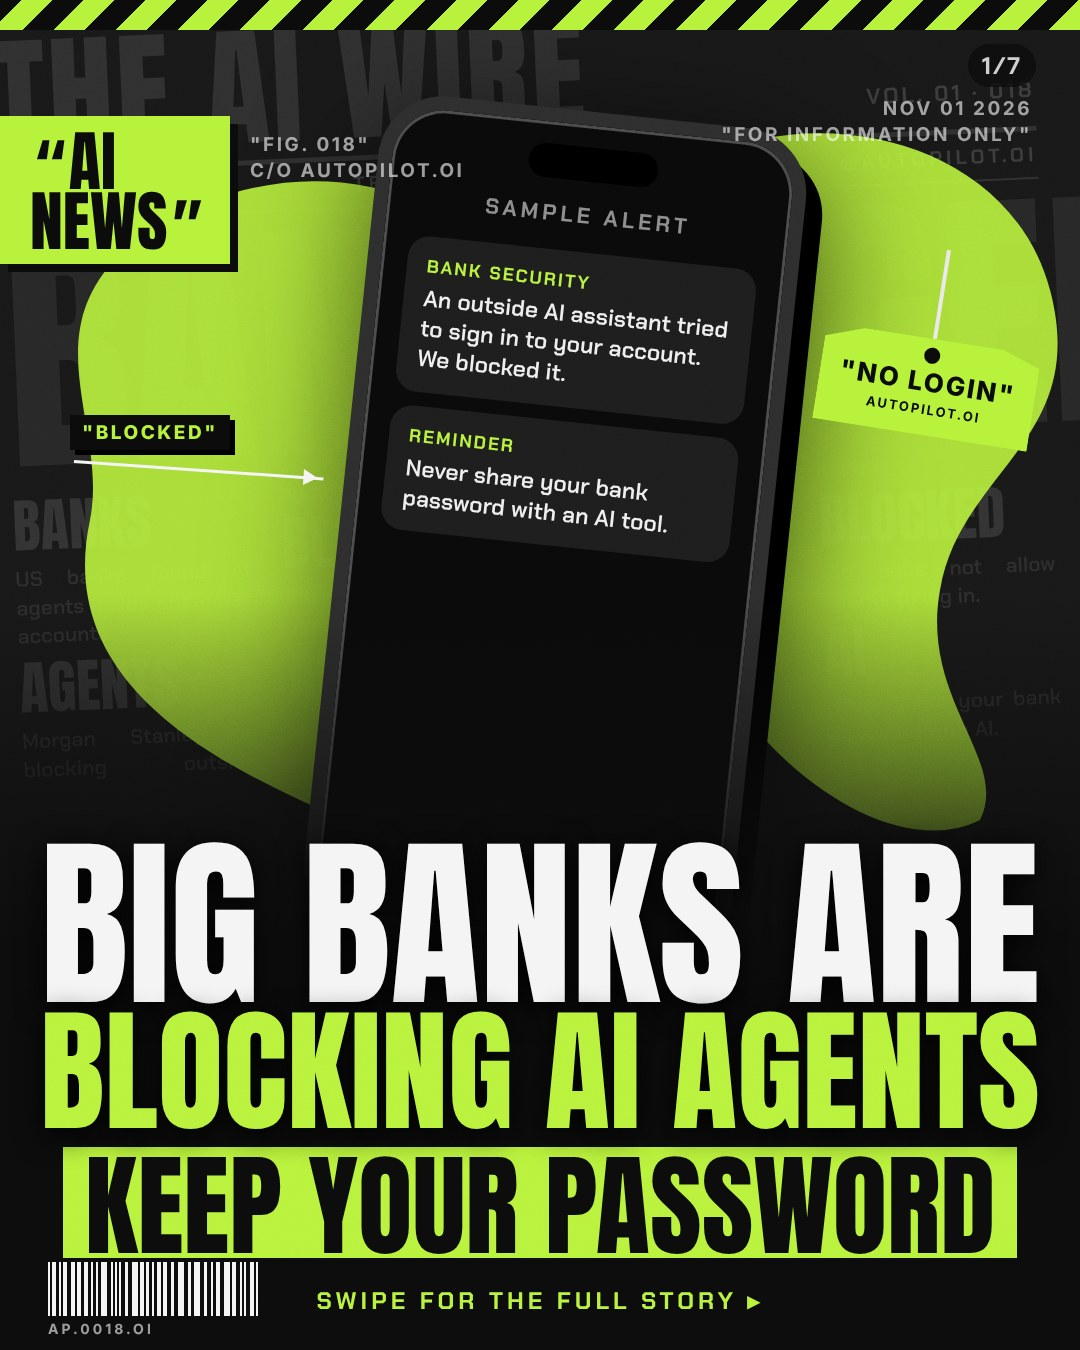
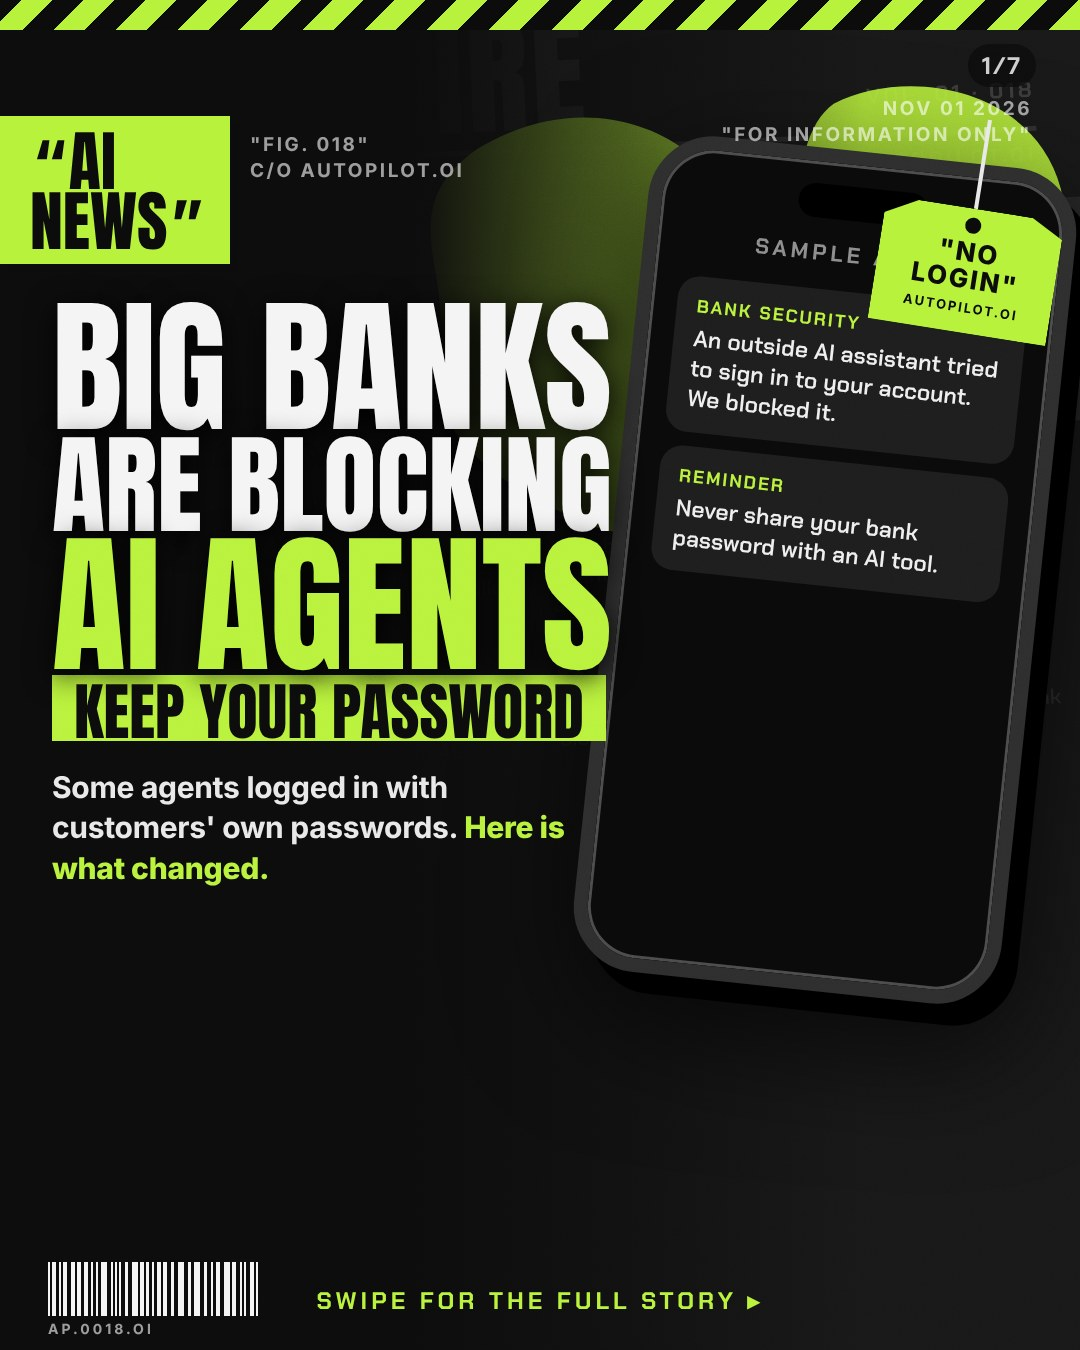
Carousels: 5 rotating cover layouts (stack, split, wall, front, arrow), light inner slides, cutout photo support; Pexels + rembg photo pipeline (needs PEXELS_API_KEY)
Claude-Session: https://claude.ai/code/session_01LKQNuEnmvMjGabLVVX6Xfj

diff --git a/tools/carousel/style.css b/tools/carousel/style.css
@@ -90,3 +90,42 @@
 .bc{position:absolute;z-index:8}
 .tagbox{font:400 66px/.9 A}
 .tagbox .qm{font:800 60px/1 I;vertical-align:top;margin:0 2px}
+
+/* ---------- cutout photos ---------- */
+.cut{position:absolute;z-index:3;filter:grayscale(1) contrast(1.25) brightness(1.05) drop-shadow(0 30px 50px #000c)}
+.cut.duo{filter:grayscale(1) contrast(1.3) brightness(1.05) sepia(1) hue-rotate(38deg) saturate(2.4) drop-shadow(0 30px 50px #000c)}
+
+/* ---------- layout: split (headline left, subject right) ---------- */
+.L-split .hl2{position:absolute;left:52px;top:300px;width:560px;z-index:6;text-align:left}
+.L-split .hl2 .ln{margin:0;text-align:left}
+.L-split .dek{font:700 30px/1.35 I;color:#e8e8e8;margin-top:26px;letter-spacing:-.3px;max-width:520px}
+.L-split .dek b{color:#B8F23C}
+.L-split .shade2{position:absolute;inset:0;background:linear-gradient(90deg,#0c0c0c 38%,#0c0c0c99 58%,#0c0c0c00 80%);z-index:2}
+
+/* ---------- layout: wall (height chart, Kim K style) ---------- */
+.wallbg{position:absolute;inset:0;background:#d6d6d2}
+.wallbg i{position:absolute;left:0;right:0;height:3px;background:#5a5a56}
+.wallbg span{position:absolute;font:400 54px/1 A;color:#4a4a46}
+.L-wall .blob{opacity:.85}
+.L-wall .band{position:absolute;left:0;right:0;bottom:0;height:520px;background:linear-gradient(#0c0c0c00,#0c0c0c 34%);z-index:4}
+
+/* ---------- layout: front page (light newspaper) ---------- */
+.paper.light{background:#e8e7e1;color:#1d1d1d}
+.paper.light .mast{border-color:#1d1d1d;color:#151515}.paper.light .mast small,.paper.light .bar2{color:#333;border-color:#1d1d1d}
+.paper.light .big1{color:#1a1a1a}.paper.light .cols{color:#3a3a3a}.paper.light .cols b{color:#1d1d1d}
+.L-front .shade{background:linear-gradient(#0c0c0c00,#0c0c0c 42%)}
+
+/* ---------- layout: arrow (left stack + chevrons) ---------- */
+.L-arrow .hl3{position:absolute;left:46px;top:300px;z-index:6;text-align:left}
+.L-arrow .hl3 .ln{margin:0;text-align:left}
+.L-arrow .chev2{position:absolute;z-index:6;display:flex;gap:6px}
+.L-arrow .chev2 b{display:block;width:96px;height:150px;background:#6f6f6f;clip-path:polygon(0 0,45% 0,100% 50%,45% 100%,0 100%,55% 50%)}
+.L-arrow .chev2 b.g{background:#B8F23C}
+.L-arrow .kick{font:800 26px/1.3 I;letter-spacing:1px;color:#f4f4f4;border-top:3px solid #f4f4f4;padding-top:14px;margin-top:22px;text-transform:uppercase;max-width:560px}
+.L-arrow .kick b{color:#B8F23C}
+/* light inner slide variant */
+.s.lite{background:#e8e7e1;color:#111}
+.s.lite .b{color:#1d1d1d}.s.lite .b b{background:#B8F23C;color:#111;padding:0 6px}
+.s.lite .t .l{background:#111;color:#B8F23C;padding:0 10px}
+.s.lite .handle{color:#0009}.s.lite .pg{background:#111;color:#fff}
+.s.lite .bignum{font:400 300px/.8 A;color:#111;margin-bottom:10px}

diff --git a/tools/carousel/build.py b/tools/carousel/build.py
@@ -39,11 +39,11 @@ BLOBS = ('<svg class="blob" viewBox="0 0 1080 1350" preserveAspectRatio="none"><
          '<path d="M700 160 C820 100 1010 140 1050 290 C1090 440 960 470 940 590 C920 700 1010 760 980 820 C900 860 780 780 720 680 C650 560 600 230 700 160Z"/></g></svg>')
 
 
-def paper(p):
+def paper(p, light=False):
     words = p.get("bg_words") or ["AI", "NEWS"]
     facts = p.get("bg_facts") or [s.get("body", s.get("why", "")) for s in p.get("slides", [])]
     blocks = "".join(f"<b>{E(w)}</b>{plain(f)} " for w, f in zip((words * 4)[:8], (facts * 4)[:8]))
-    return (f'<div class="paper"><div class="mast"><span>THE AI WIRE</span><small>VOL. 01 &middot; {E(p.get("ow", {}).get("fig", "01"))}</small></div>'
+    return (f'<div class="paper{" light" if light else ""}"><div class="mast"><span>THE AI WIRE</span><small>VOL. 01 &middot; {E(p.get("ow", {}).get("fig", "01"))}</small></div>'
             f'<div class="bar2"><span>BREAKING</span><span>TECH &middot; MONEY &middot; YOU</span><span>@AUTOPILOT.OI</span></div>'
             f'<div class="big1">{E(" ".join(words[:2]))}</div><div class="cols">{blocks}</div></div>')
 
@@ -69,6 +69,10 @@ def evidence(h):
                  'fill="none" stroke="#B8F23C" stroke-width="7"/></svg>') if h.get("spark", True) else ""
         out = (f'<div class="ev" style="left:{x}px;top:{y}px"><div class="tick"><small>{E(h.get("top", ""))}</small>'
                f'<b>{E(h["text"])}</b><i>{E(h.get("bottom", ""))}</i>{spark}</div></div>')
+    elif t == "cutout":
+        w = h.get("w", 760)
+        return f'<img class="cut{" duo" if h.get("duo") else ""}" src="/docs/media/car/{E(h["src"])}" style="left:{x}px;top:{y}px;width:{w}px">' + (
+            f'<div class="ring" style="left:{h["ring"][0]}px;top:{h["ring"][1]}px;width:{h["ring"][2]}px;height:{h["ring"][2]}px"></div>' if h.get("ring") else "")
     elif t == "big":
         out = f'<div class="ev" style="left:{x}px;top:{y}px"><div class="bigno">{E(h["text"])}<small>{E(h.get("label", ""))}</small></div></div>'
     if h.get("ring"):
@@ -114,7 +118,48 @@ def offwhite(p, n, cover=True):
     return out
 
 
+def wall():
+    lines = "".join(f'<i style="top:{60 + k * 64}px"></i>' for k in range(19))
+    marks = "".join(f'<span style="left:22px;top:{40 + k * 128}px">{90 - k * 4}&quot;</span><span style="right:22px;top:{40 + k * 128}px">{90 - k * 4}&quot;</span>' for k in range(10))
+    return f'<div class="wallbg">{lines}{marks}</div>'
+
+
+def chevrons(x, y, n_gray=2, n_lime=3):
+    return f'<div class="chev2" style="left:{x}px;top:{y}px">' + "<b></b>" * n_gray + '<b class="g"></b>' * n_lime + "</div>"
+
+
 def cover(p, n):
+    lay = p.get("layout", "stack")
+    if lay == "stack":
+        return cover_stack(p, n)
+    tag = ('<span class="qm">&ldquo;</span>AI<br>NEWS<span class="qm">&rdquo;</span>' if p["kind"] == "news"
+           else '<span class="qm">&ldquo;</span>AI<br>TIPS<span class="qm">&rdquo;</span>')
+    rib = p.get("ribbon") or ("BREAKING NEWS" if p.get("breaking") else "")
+    brk = f'<div class="brk">{E(rib)}</div><br>' if rib else ""
+    ev = evidence(p.get("hero")); ow = offwhite(p, n)
+    head = f'<div class="tagbox">{tag}</div><div class="pg">1/{n}</div>'
+    foot = '<div class="foot1">SWIPE FOR THE FULL STORY &#9656;</div>'
+    dek = f'<div class="dek">{lime(p["dek"])}</div>' if p.get("dek") else ""
+    if lay == "split":
+        return (f'<div class="s L-split" id="s1">{paper(p)}<div class="shade2"></div>{BLOBS.replace("class=\"blob\"", "class=\"blob\" style=\"left:380px\"")}{ev}{GRAIN}{ow}{head}'
+                f'<div class="hl2">{brk}<div class="fitl" data-w="560">{lines_html(p["lines"])}</div>{dek}</div>{foot}</div>')
+    if lay == "wall":
+        sub = f'<div class="sub">{E(p["subline"])}</div>' if p.get("subline") else ""
+        return (f'<div class="s L-wall" id="s1">{wall()}{BLOBS}{ev}<div class="band"></div>{GRAIN}{ow}{head}'
+                f'<div class="hl">{brk}<div class="fitl">{lines_html(p["lines"])}</div>{sub}</div>{foot}</div>')
+    if lay == "front":
+        sub = f'<div class="sub">{E(p["subline"])}</div>' if p.get("subline") else ""
+        return (f'<div class="s L-front" id="s1">{paper(p, light=True)}{ev}<div class="shade"></div>{GRAIN}{ow}{head}'
+                f'<div class="hl">{brk}<div class="fitl">{lines_html(p["lines"])}</div>{sub}</div>{foot}</div>')
+    if lay == "arrow":
+        kick = f'<div class="kick">{lime(p["kicker"])}</div>' if p.get("kicker") else ""
+        cx, cy = p.get("chev_at", [470, 980])
+        return (f'<div class="s L-arrow" id="s1"><div style="opacity:.55">{paper(p)}</div>{ev}{GRAIN}{ow}{head}{chevrons(cx, cy)}'
+                f'<div class="hl3">{brk}<div class="fitl" data-w="{p.get('head_w', 520)}">{lines_html(p["lines"])}</div>{kick}</div>{foot}</div>')
+    return cover_stack(p, n)
+
+
+def cover_stack(p, n):
     rib = p.get("ribbon") or ("BREAKING NEWS" if p.get("breaking") else "")
     brk = f'<div class="brk">{E(rib)}</div><br>' if rib else ""
     sub = f'<div class="sub">{E(p["subline"])}</div>' if p.get("subline") else ""
@@ -134,6 +179,10 @@ def inner(p, i, n, sl):
                 f'<div class="in wide"><div class="fit2">{body}</div></div><div class="handle">"SAVE THIS" &nbsp;&middot;&nbsp; @AUTOPILOT.OI &nbsp;&middot;&nbsp; FIG. {i:02d}</div><div class="haz" style="bottom:0;height:16px"></div></div>')
     body = f'<div class="t">{lime(sl["title"])}</div><div class="b">{lime(sl["body"])}</div>'
     ev = evidence(sl["hero"]) if sl.get("hero") else ""
+    if sl.get("lite") or (i % 3 == 0 and sl.get("lite") is not False):
+        big = f'<div class="bignum">{E(sl["num"])}</div>' if sl.get("num") else ""
+        return (f'<div class="s lite" id="s{i}"><div class="haz" style="top:0;height:16px"></div>{GRAIN}<div class="pg">{i}/{n}</div>'
+                f'<div class="in wide"><div class="fit2">{big}{body}</div></div><div class="handle">"@AUTOPILOT.OI" &nbsp;&middot;&nbsp; FIG. {i:02d}</div></div>')
     return (f'<div class="s" id="s{i}"><div class="side">{paper(p)}</div>{ev}'
             f'<div class="shade" style="height:100%;background:linear-gradient(90deg,#0c0c0c 46%,#0c0c0c00 80%)"></div>{GRAIN}'
             f'<div class="pg">{i}/{n}</div><div class="in"><div class="fit2">{body}</div></div>'
@@ -153,9 +202,12 @@ def last(p, i, n):
 FIT = """<script>
 async function go(){await document.fonts.ready;
  for(const box of document.querySelectorAll('.fitl')){const ls=[...box.querySelectorAll('.ln')];
-   ls.forEach(l=>{l.style.fontSize='100px';const w=l.getBoundingClientRect().width;l.dataset.f=Math.min(230,100*(l.classList.contains('box')?960:1000)/w)});
+   const W=+(box.dataset.w||1000);
+   ls.forEach(l=>{l.style.fontSize='100px';const w=l.getBoundingClientRect().width;l.dataset.f=Math.min(230,100*(l.classList.contains('box')?W*.96:W)/w)});
    let k=1;const apply=()=>ls.forEach(l=>l.style.fontSize=(l.dataset.f*k)+'px');apply();
-   while(box.parentElement.getBoundingClientRect().top<560&&k>.4){k-=.03;apply()}}
+   const P=box.parentElement;
+   if(box.dataset.w){while(P.getBoundingClientRect().bottom>1240&&k>.4){k-=.03;apply()}}
+   else{while(P.getBoundingClientRect().top<560&&k>.4){k-=.03;apply()}}}
  for(const el of document.querySelectorAll('.fit2')){const b=el.parentElement;let k=1;while(el.scrollHeight>b.clientHeight&&k>.5){k-=.04;el.style.zoom=k}}
  document.body.dataset.ready=1}
 go();</script>"""

diff --git a/scripts/photos.py b/scripts/photos.py
@@ -1,0 +1,60 @@
+"""Stock photos and cutouts for carousels (runs in GitHub Actions: .github/workflows/photos.yml).
+
+Requests: queue/photos/<slug>.json  {"query": "laptop on desk dark", "orientation": "portrait", "n": 3, "status": "pending"}
+For each pending request: search Pexels (free license, commercial use OK), download the top results, cut the subject out
+with rembg, save to docs/media/car/photos/<slug>/:
+  01.jpg      the original (resized)
+  01_cut.png  transparent cutout (full color; the carousel CSS makes it grayscale)
+  credits.json photographer, page url, Pexels id (Pexels asks for credit when possible; we keep it with the image)
+Rules: never request a named real person; generic people, hands, objects and places only. Status becomes "done" or "failed".
+
+    python3 scripts/photos.py            (needs PEXELS_API_KEY)"""
+import glob, io, json, os, sys, urllib.parse, urllib.request
+
+ROOT = os.path.dirname(os.path.dirname(os.path.abspath(__file__)))
+KEY = os.environ.get("PEXELS_API_KEY", "").strip()
+
+
+def get(url, headers=None):
+    req = urllib.request.Request(url, headers={"User-Agent": "autopilot-photos/1", **(headers or {})})
+    return urllib.request.urlopen(req, timeout=60).read()
+
+
+def run():
+    if not KEY:
+        print("No PEXELS_API_KEY yet"); return 0
+    from PIL import Image
+    from rembg import remove, new_session
+    session = new_session("isnet-general-use")
+    done = 0
+    for f in sorted(glob.glob(os.path.join(ROOT, "queue", "photos", "*.json"))):
+        r = json.load(open(f))
+        if r.get("status") != "pending":
+            continue
+        slug = os.path.basename(f)[:-5]; out = os.path.join(ROOT, "docs", "media", "car", "photos", slug); os.makedirs(out, exist_ok=True)
+        try:
+            q = urllib.parse.urlencode({"query": r["query"], "orientation": r.get("orientation", "portrait"), "per_page": r.get("n", 3), "size": "large"})
+            res = json.loads(get("https://api.pexels.com/v1/search?" + q, {"Authorization": KEY}))
+            credits = []
+            for i, ph in enumerate(res.get("photos", [])[: r.get("n", 3)], 1):
+                img = Image.open(io.BytesIO(get(ph["src"]["large2x"]))).convert("RGB")
+                img.thumbnail((1600, 1600))
+                img.save(os.path.join(out, f"{i:02d}.jpg"), quality=88)
+                cut = remove(img, session=session)
+                bbox = cut.getbbox()
+                if bbox:
+                    cut = cut.crop(bbox)
+                cut.save(os.path.join(out, f"{i:02d}_cut.png"))
+                credits.append({"n": i, "pexels_id": ph["id"], "photographer": ph.get("photographer"), "url": ph.get("url"), "alt": ph.get("alt")})
+            json.dump({"query": r["query"], "credits": credits}, open(os.path.join(out, "credits.json"), "w"), indent=1)
+            r["status"] = "done" if credits else "failed"; r["count"] = len(credits)
+            if not credits: r["error"] = "no results"
+        except Exception as e:
+            r["status"] = "failed"; r["error"] = repr(e)[:300].replace(KEY, "***")
+        json.dump(r, open(f, "w"), indent=1); done += 1
+        print(slug, r["status"], r.get("count", 0))
+    return done
+
+
+if __name__ == "__main__":
+    run()
